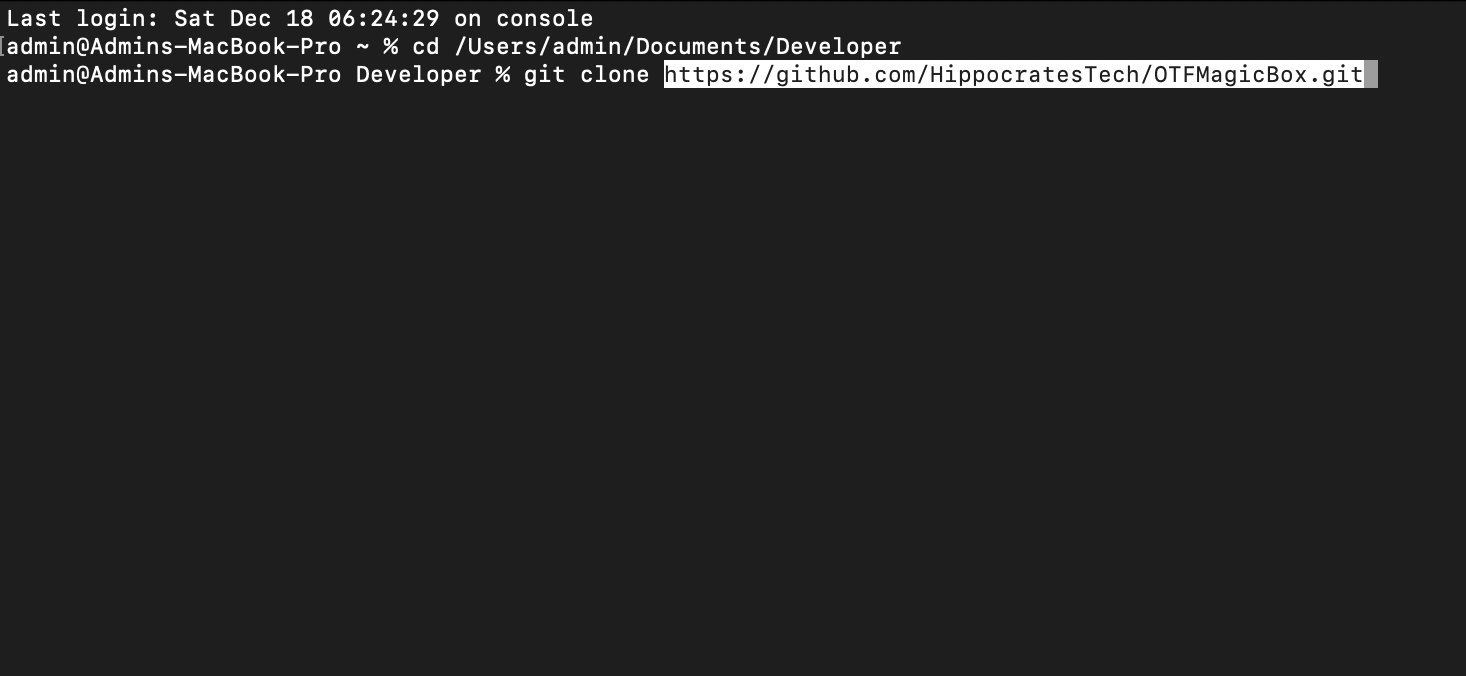
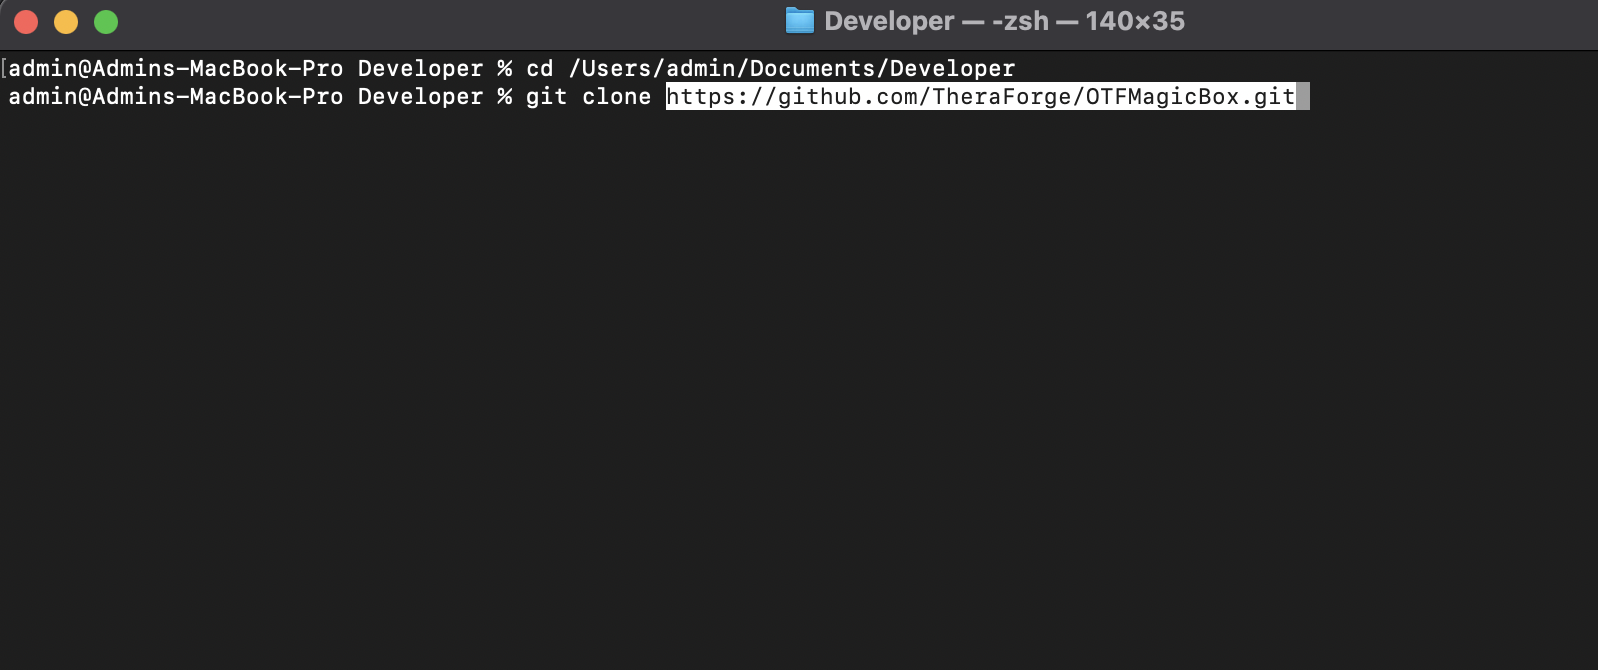
terminal screenshot updated for git clone

Changed region(s): [[0.0, 0.0, 1.0, 0.1791]]

diff --git a/README.md b/README.md
@@ -237,7 +237,7 @@ Next, copy the URL of MagicBox's repository in GitHub to clone it. Remember to s
 
 This is the URL that you should get from GitHub:
 
-`https://github.com/HippocratesTech/OTFMagicBox.git`
+`https://github.com/TheraForge/OTFMagicBox.git`
 
 ### 3. Clone MagicBox's Repository to Install the App
 
